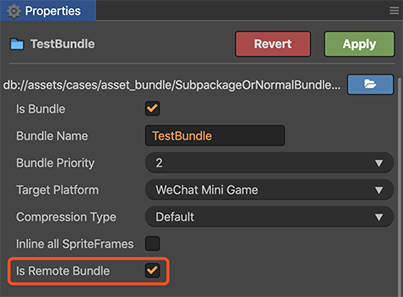
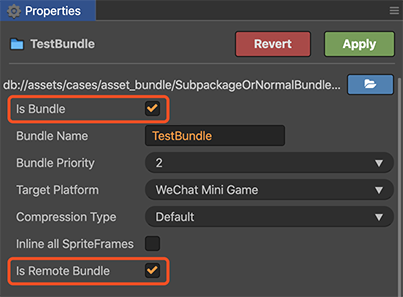
update

Changed region(s): [[0.0, 0.303, 0.4467, 0.4242]]

diff --git a/en/publish/publish-wechatgame.md b/en/publish/publish-wechatgame.md
@@ -77,17 +77,18 @@ Starting with v2.4.0, all resources are managed in asset bundles. The engine has
 
 If you need to upload the resource onto your server, configure the asset bundle where the resource is located as a remote bundle. Next, we'll cover exactly how to do it:
 
-1. Configure the asset bundle that needs to be uploaded as a remote bundle.
+1. Rationalize the allocation of your resources, assigning folders that require modular management as asset bundles.
+2. Configure the asset bundle that needs to be uploaded as a remote bundle.
 
     ![](./publish-wechatgame/bundle_is_remote.png)
 
-2. If the main bundle needs to be configured as a remote one, it needs to be set in the build panel.
+3. If the main bundle needs to be configured as a remote one, it needs to be set in the build panel.
 
-3. When building, check the **MD5 Cache** in the **Build** panel.
-4. Set **Remote Server Address**, and then click **Build** button.
-5. When the build is complete, upload the **remote** folder in the mini game release package to the server.
-6. Delete the **remote** folder inside the release package.
-7. For the test phase, you may not be able to deploy to the official server, you need to use the local server to test, then open the **Details** page in the WeChat DevTools, check the **Does not verify valid domain names, web-view (business domain names), TLS versions and HTTPS certificates** option in the project settings.
+4. When building, check the **MD5 Cache** in the **Build** panel.
+5. Set **Remote Server Address**, and then click **Build** button.
+6. When the build is complete, upload the **remote** folder in the mini game release package to the server.
+7. Delete the **remote** folder inside the release package.
+8. For the test phase, you may not be able to deploy to the official server, you need to use the local server to test, then open the **Details** page in the WeChat DevTools, check the **Does not verify valid domain names, web-view (business domain names), TLS versions and HTTPS certificates** option in the project settings.
 
     ![](./publish-wechatgame/detail.jpeg)
 

diff --git a/zh/publish/publish-wechatgame.md b/zh/publish/publish-wechatgame.md
@@ -73,19 +73,20 @@
 
 如果你需要将资源放在服务器上，请将资源所在的 asset bundle 配置为远程包。接下来，我们将介绍具体如何操作：
 
-1. 将需要放在服务器上的 asset bundle 配置为远程包。
+1. 合理分配你的资源，把需要模块化管理的资源文件夹，指派为 asset bundle
+2. 将需要放在服务器上的 asset bundle 配置为远程包。
     
     ![](./publish-wechatgame/bundle_is_remote.png)
 
-2. 如果主包需要配置为远程包，需要在构建面板里进行设置。
-3. 构建时，在 **构建发布** 面板中勾选 md5Cache 功能。
-4. 设置 **远程服务器地址**，然后点击 **构建**。
+3. 如果主包需要配置为远程包，需要在构建面板里进行设置。
+4. 构建时，在 **构建发布** 面板中勾选 md5Cache 功能。
+5. 设置 **远程服务器地址**，然后点击 **构建**。
 
     ![](./publish-wechatgame/builder_config.png)
     
-5. 构建完成后将微信小游戏发布包目录下的 remote 文件夹完整的上传到服务器。
-6. 删除本地发布包目录下的 remote 文件夹。
-7. 对于测试阶段来说，可能开发者无法部署到正式服务器上，需要用本地服务器来测试，那么请在微信开发者工具中打开 **详情** 页面，勾选项目设置中的 **不检验安全域名、TLS 版本以及 HTTPS 证书** 选项。
+6. 构建完成后将微信小游戏发布包目录下的 remote 文件夹完整的上传到服务器。
+7. 删除本地发布包目录下的 remote 文件夹。
+8. 对于测试阶段来说，可能开发者无法部署到正式服务器上，需要用本地服务器来测试，那么请在微信开发者工具中打开 **详情** 页面，勾选项目设置中的 **不检验安全域名、TLS 版本以及 HTTPS 证书** 选项。
 
     ![](./publish-wechatgame/detail.jpeg)
 

diff --git a/en/publish/publish-alipay-mini-games.md b/en/publish/publish-alipay-mini-games.md
@@ -26,7 +26,7 @@ Starting with Cocos Creator **v2.1.4**, creating games for the Alipay Mini Games
 
 ## Resource Management for Alipay Mini Game Environment
 
-**Alipay Mini Game** is similar to **WeChat Mini Game**. There are restrictions on the package size. Resources more than **4MB** must be downloaded via a network request.
+**Alipay Mini Game** is similar to **WeChat Mini Game**. There are restrictions on the package size. Resources over **4MB** must be downloaded via a network request.
 
 It is recommended to only save script files in the mini-game packages, while other resources are uploaded to the remote server, and downloaded from the remote server as needed. The download, cache, and version management of remote resources, Cocos Creator has already done it for you. The specific implementation logic is similar to the WeChat Mini Game. Please refer to [Resource Management for WeChat Mini Game](./publish-wechatgame.md#resource-management-for-wechat-mini-game-environment) documentation for details.
 
@@ -39,7 +39,7 @@ Specifically, developers need to:
 
 ## Resource Management for Alipay Mini Game Environment
 
-**Alipay Mini Game** is similar to **WeChat Mini Game**. There are restrictions on the package size. Resources more than **4MB** must be downloaded via a network request.
+**Alipay Mini Game** is similar to **WeChat Mini Game**. There are restrictions on the package size. Resources over **4MB** must be downloaded via a network request.
 
 Please refer to [Resource Management for WeChat Mini Game](./publish-wechatgame.md#resource-management-for-wechat-mini-game-environment) documentation for details.
 

diff --git a/en/publish/publish-baidugame.md b/en/publish/publish-baidugame.md
@@ -38,7 +38,7 @@ For specific **Baidu Mini Game** application, station development, game submissi
 
 ## Resource Management for Baidu Mini Game Environment
 
-**Baidu Mini Game** is similar to **WeChat Mini Game**. There are restrictions on the package size. Resources more than **4MB** must be downloaded via a network request.
+**Baidu Mini Game** is similar to **WeChat Mini Game**. There are restrictions on the package size. Resources over **4MB** must be downloaded via a network request.
 
 Please refer to [Resource Management for WeChat Mini Game](./publish-wechatgame.md#resource-management-for-wechat-mini-game-environment) documentation for details.
 

diff --git a/en/publish/publish-xiaomi-quick-games.md b/en/publish/publish-xiaomi-quick-games.md
@@ -141,7 +141,7 @@ There are two ways to start debugging.
 
 ## Resource Management for Alipay Mini Game Environment
 
-**Xiaomi Quick Game** is similar to **WeChat Mini Game**. There are restrictions on the package size. Resources more than **5MB** must be downloaded via a network request.
+**Xiaomi Quick Game** is similar to **WeChat Mini Game**. There are restrictions on the package size. Resources over **5MB** must be downloaded via a network request.
 
 Please refer to [Resource Management for WeChat Mini Game](./publish-wechatgame.md#resource-management-for-wechat-mini-game-environment) documentation for details.
 
